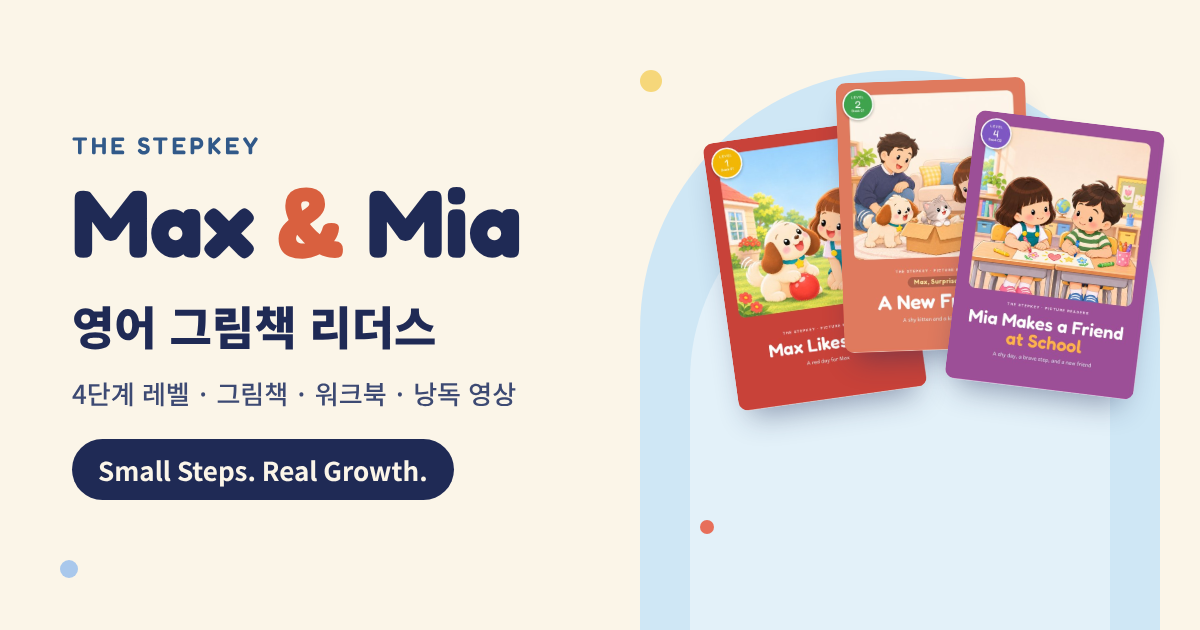
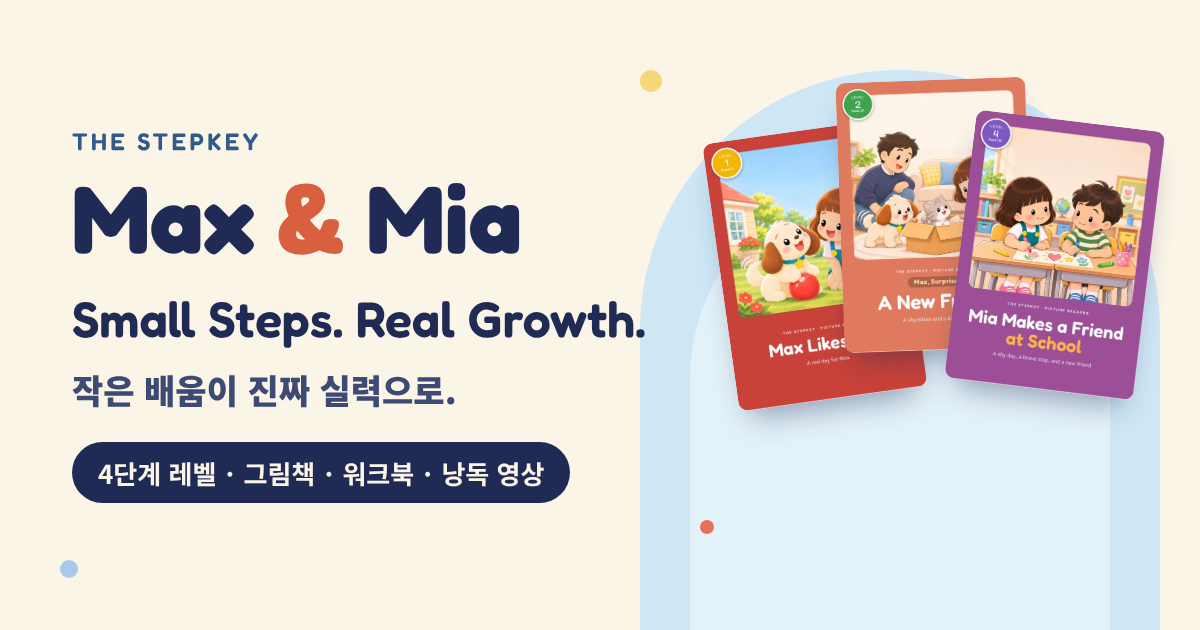
홈페이지 미리보기에 슬로건 반영
Claude-Session: https://claude.ai/code/session_01RxKLeTXr42hmLoyku7QqLJ

diff --git a/index.html b/index.html
@@ -1,16 +1,16 @@
 <!doctype html>
 <html lang="ko"><head><meta charset="utf-8">
 <meta name="viewport" content="width=device-width,initial-scale=1">
-<title>스텝키 Max & Mia 영어 그림책 리더스</title>
-<meta name="description" content="4단계 레벨 · 그림책 · 워크북 · 낭독 영상 · 애니메이션. Small Steps. Real Growth.">
+<title>스텝키 Max & Mia</title>
+<meta name="description" content="Small Steps. Real Growth. 작은 배움이 진짜 실력으로. 4단계 레벨 · 그림책 · 워크북 · 낭독 영상">
 <meta property="og:type" content="website">
 <meta property="og:site_name" content="THE STEPKEY">
-<meta property="og:title" content="스텝키 Max & Mia 영어 그림책 리더스">
-<meta property="og:description" content="4단계 레벨 · 그림책 · 워크북 · 낭독 영상 · 애니메이션. Small Steps. Real Growth.">
+<meta property="og:title" content="스텝키 Max & Mia">
+<meta property="og:description" content="Small Steps. Real Growth. 작은 배움이 진짜 실력으로. 4단계 레벨 · 그림책 · 워크북 · 낭독 영상">
 <meta property="og:image" content="https://maxandmia-en.github.io/maxmia-link/og-home.png">
 <meta property="og:image:width" content="1200"><meta property="og:image:height" content="630">
 <meta property="og:url" content="https://maxandmia-en.github.io/maxmia-link/">
 <meta name="twitter:card" content="summary_large_image">
 <style>body{margin:0;min-height:100vh;display:grid;place-items:center;background:#FBF5E8;color:#1F2A55;font-family:system-ui,"Apple SD Gothic Neo","Malgun Gothic",sans-serif;text-align:center;padding:24px}a{display:inline-block;margin-top:18px;background:#1F2A55;color:#FBF5E8;padding:14px 26px;border-radius:999px;text-decoration:none;font-weight:700}img{max-width:min(560px,90vw);border-radius:16px}</style>
 <script>location.replace("https://claude.ai/artifact/UeDkZdswYoYjkuQA9ojWr8");</script>
-</head><body><div><img src="og-home.png" alt="스텝키 Max & Mia 영어 그림책 리더스"><p>잠시 후 이동합니다…</p><a href="https://claude.ai/artifact/UeDkZdswYoYjkuQA9ojWr8">바로 열기</a></div></body></html>
+</head><body><div><img src="og-home.png" alt="스텝키 Max & Mia"><p>잠시 후 이동합니다…</p><a href="https://claude.ai/artifact/UeDkZdswYoYjkuQA9ojWr8">바로 열기</a></div></body></html>
